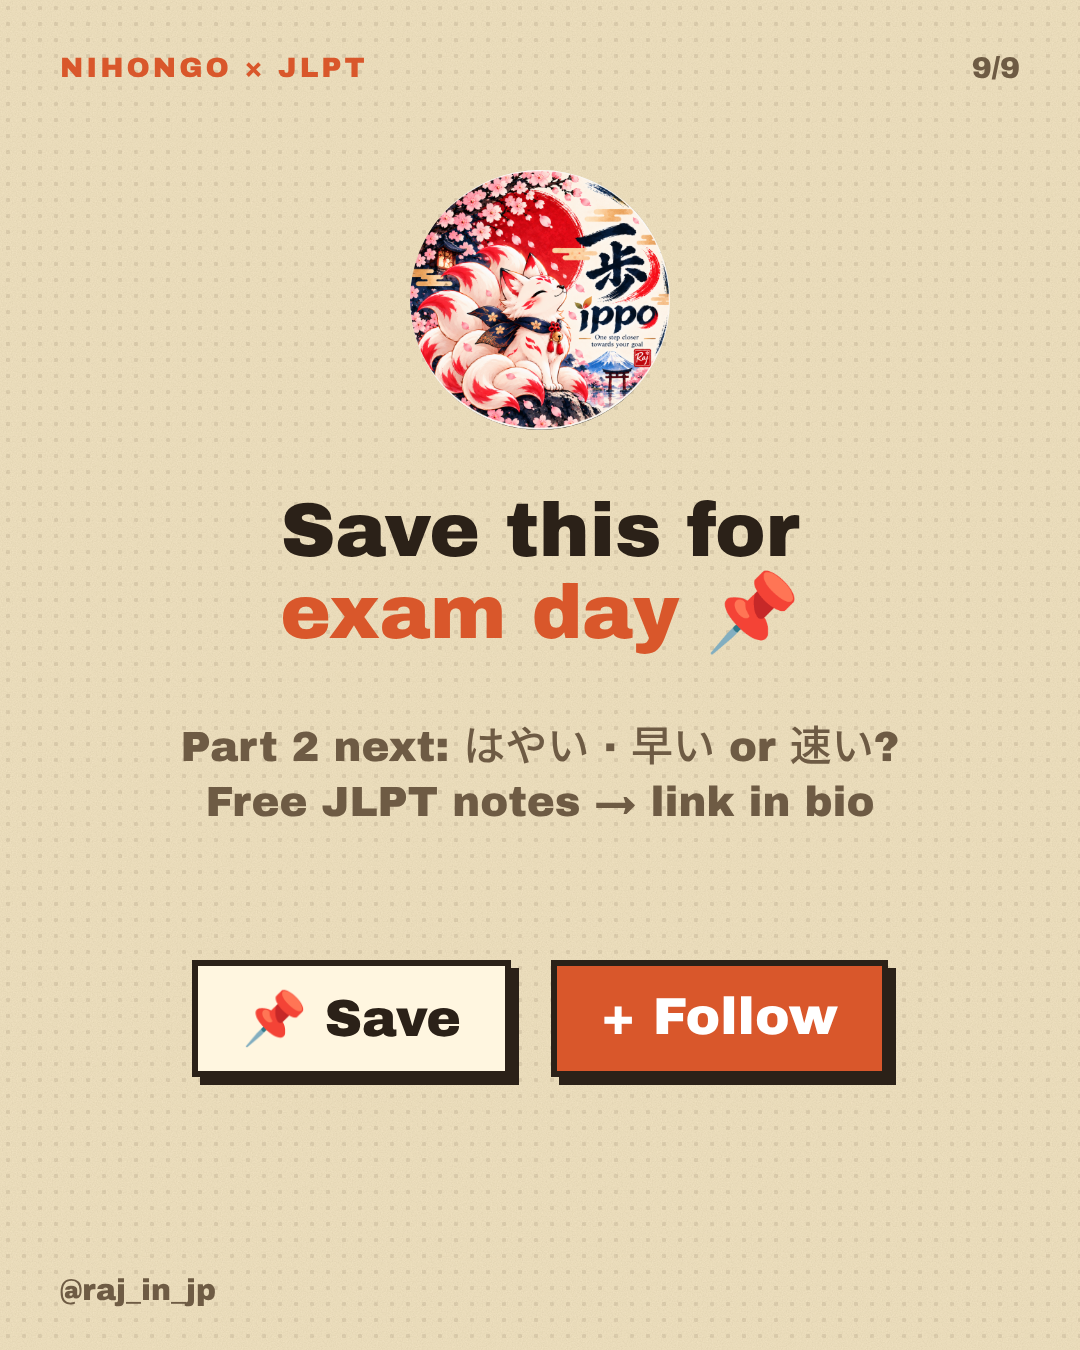
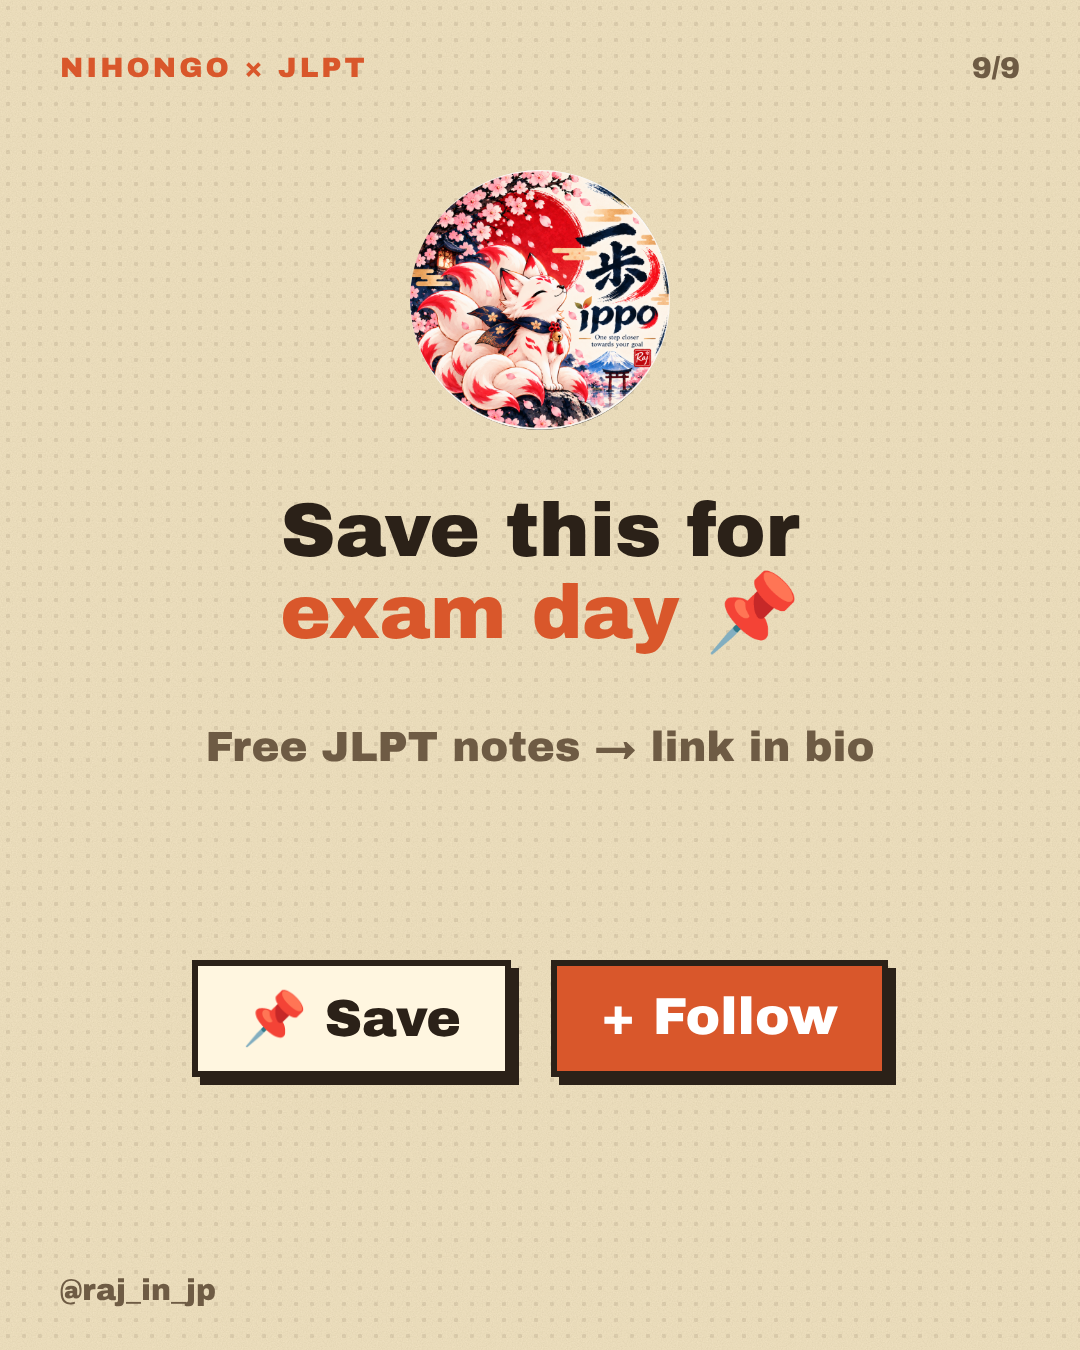
JLPT carousel part 1: drop part 2 teaser from CTA
Claude-Session: https://claude.ai/code/session_01EaoD2uAGWmKnrxvvdunxK2

Changed region(s): [[0.1528, 0.5289, 0.825, 0.6222]]

diff --git a/instagram/carousels/jlpt-same-sound-different-kanji/slides.html b/instagram/carousels/jlpt-same-sound-different-kanji/slides.html
@@ -114,7 +114,7 @@ ruby{ruby-position:over} rt{font-family:NotoJP;font-weight:500;font-size:.42em;c
 <section class="s"><div class="grain"></div><div class="tag">NIHONGO × JLPT</div><div class="num">9/9</div><div class="hand">@raj_in_jp</div>
 <img src="logo.png" style="position:absolute;left:50%;top:170px;width:260px;margin-left:-130px;border-radius:50%">
 <div class="h" style="top:490px;font-size:76px">Save this for<br><span class="o">exam day</span> 📌</div>
-<div class="h sub" style="top:720px;font-size:42px;line-height:1.3">Part 2 next: はやい · 早い or 速い?<br>Free JLPT notes → link in bio</div>
+<div class="h sub" style="top:720px;font-size:42px;line-height:1.3">Free JLPT notes → link in bio</div>
 <div style="position:absolute;top:960px;left:0;right:0;display:flex;justify-content:center;gap:40px">
  <div class="btn" style="background:var(--card)">📌 Save</div><div class="btn" style="background:var(--acc);color:#fff">+ Follow</div></div>
 </section></body></html>

diff --git a/instagram/carousels/jlpt-same-sound-different-kanji/build2.py b/instagram/carousels/jlpt-same-sound-different-kanji/build2.py
@@ -68,7 +68,7 @@ out.append(f'''<section class="s">{head(8,"QUICK TEST")}
 out.append(f'''<section class="s">{head(9,"NIHONGO × JLPT")}
 <img src="logo.png" style="position:absolute;left:50%;top:170px;width:260px;margin-left:-130px;border-radius:50%">
 <div class="h" style="top:490px;font-size:76px">Save this for<br><span class="o">exam day</span> 📌</div>
-<div class="h sub" style="top:720px;font-size:42px;line-height:1.3">Part 2 next: はやい · 早い or 速い?<br>Free JLPT notes → link in bio</div>
+<div class="h sub" style="top:720px;font-size:42px;line-height:1.3">Free JLPT notes → link in bio</div>
 <div style="position:absolute;top:960px;left:0;right:0;display:flex;justify-content:center;gap:40px">
  <div class="btn" style="background:var(--card)">📌 Save</div><div class="btn" style="background:var(--acc);color:#fff">+ Follow</div></div>
 </section>''')
